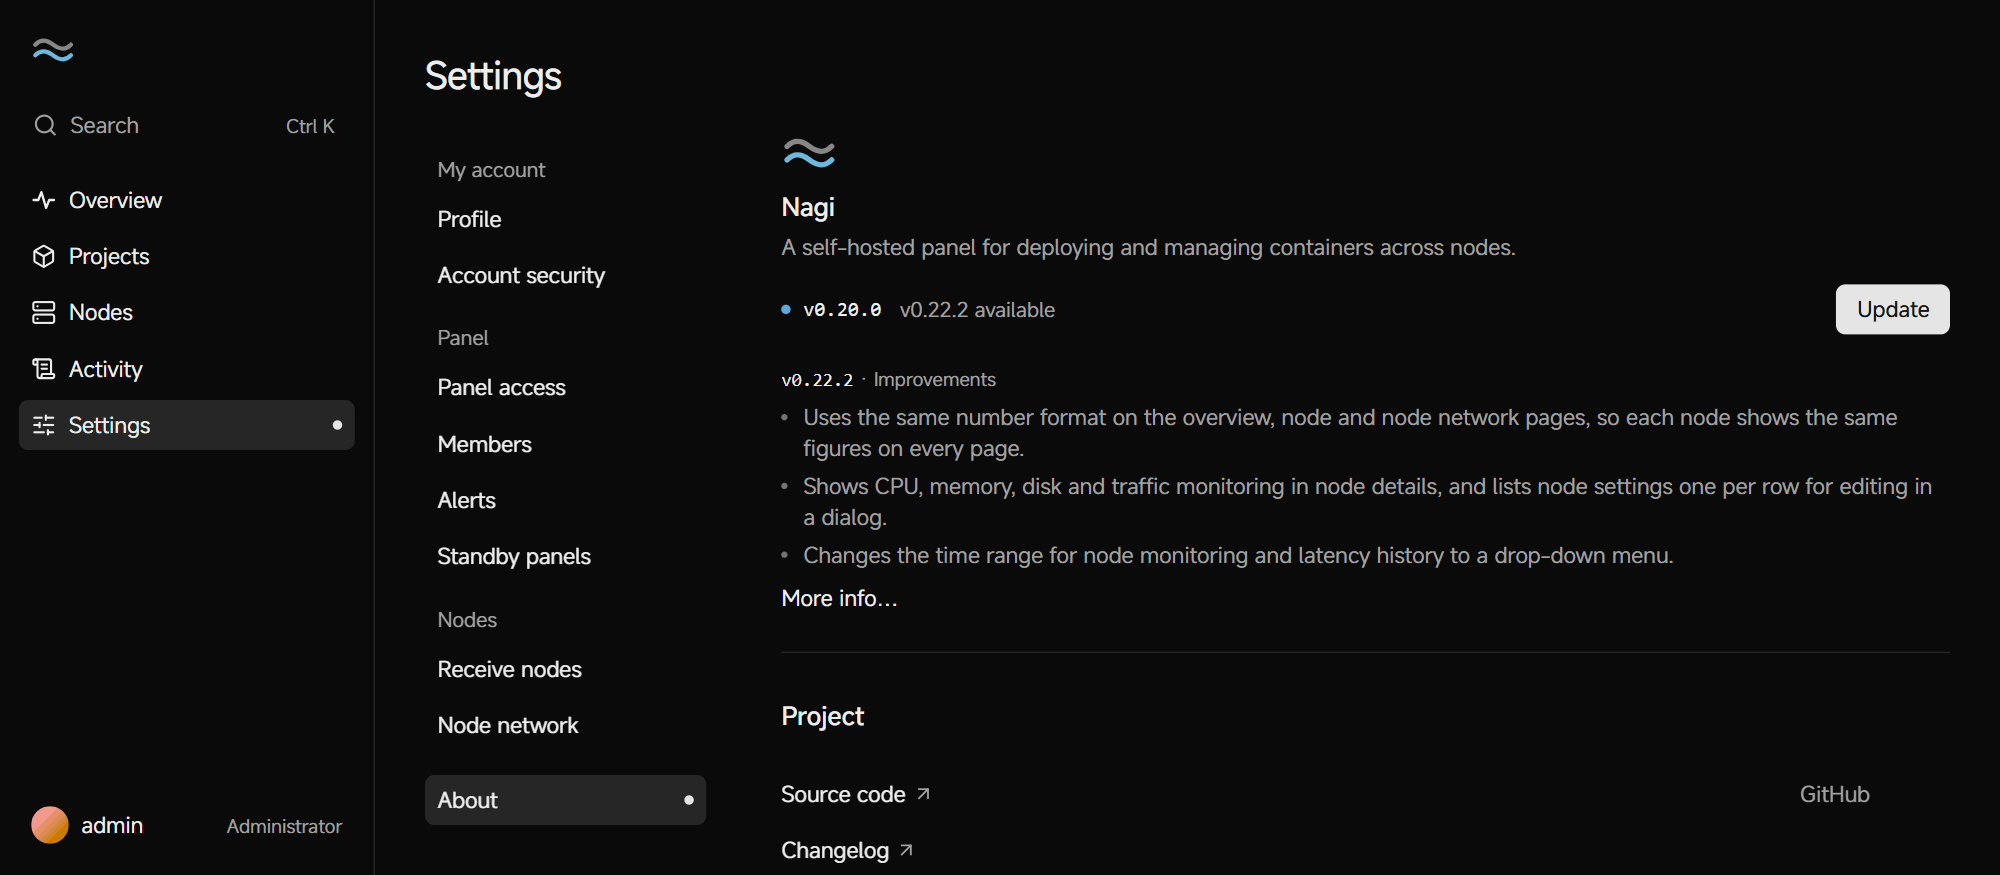
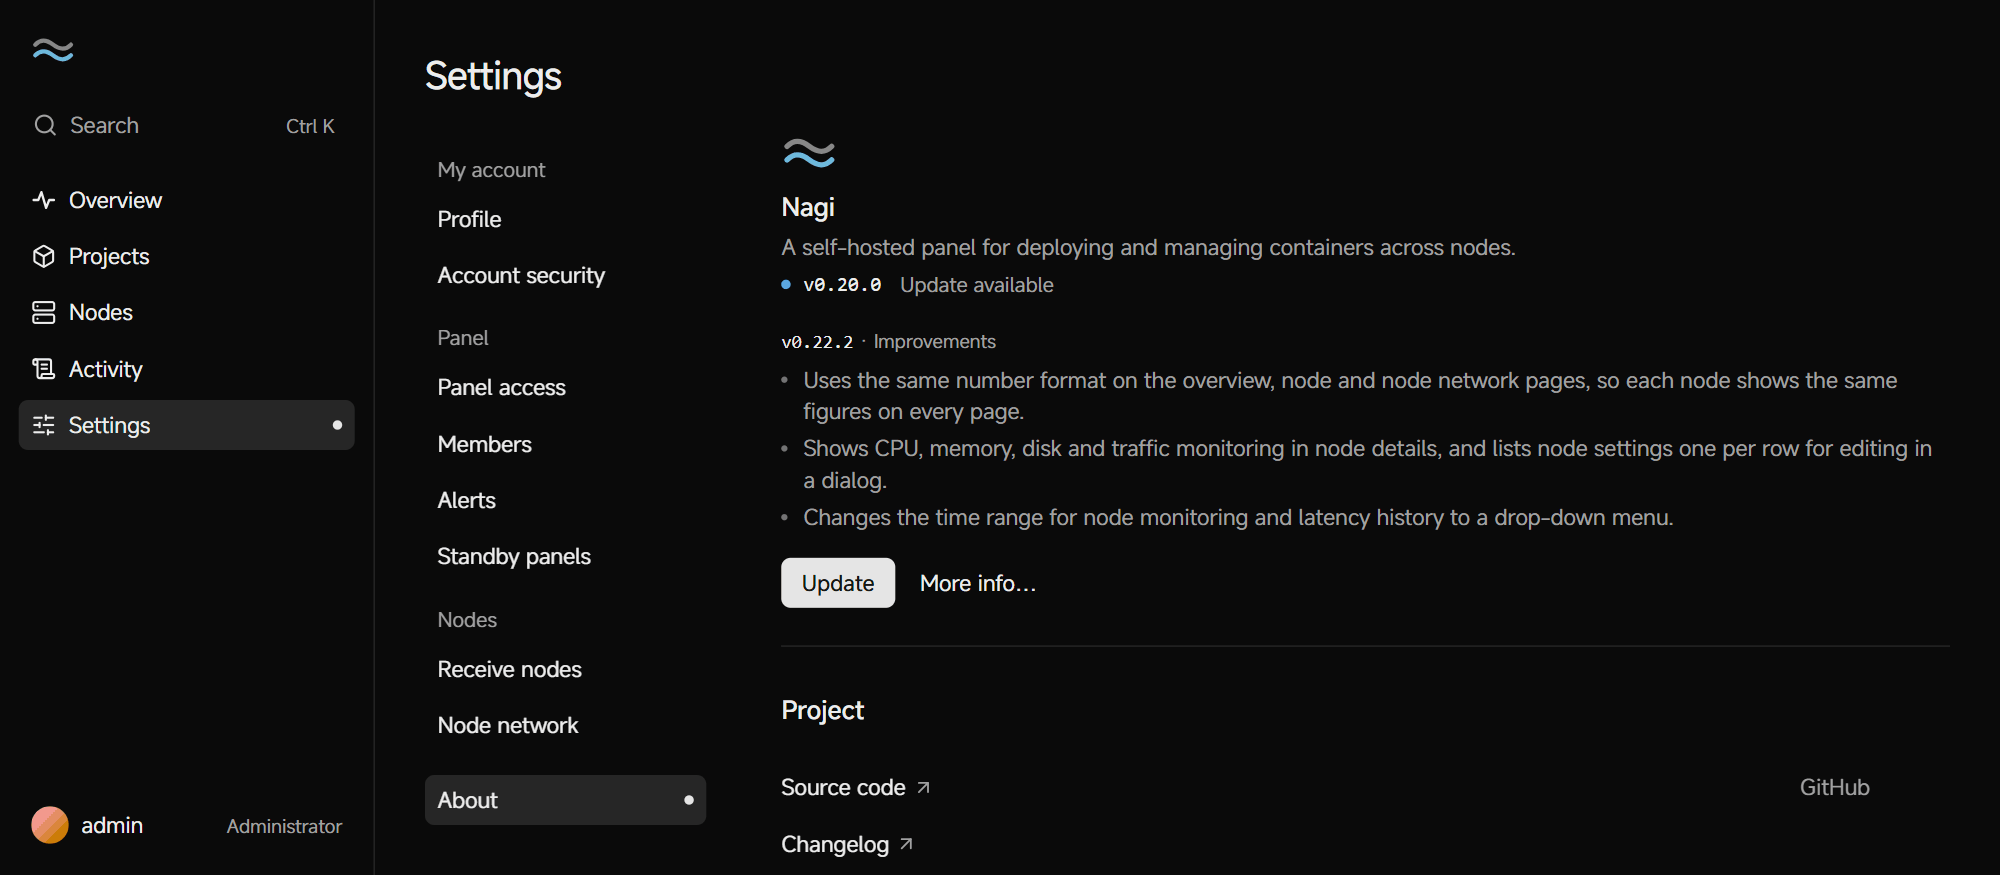
fix(web): put the update button below the notes in About
The button sat on the version line and stretched it. It now goes at the
bottom, left-aligned, with More info beside it. The status reads
"Update available", and the version line follows the tagline at the
same 4 as the name and tagline.

diff --git a/web/src/pages/update.tsx b/web/src/pages/update.tsx
@@ -367,14 +367,14 @@ export function PanelVersion({ isAdmin }: { isAdmin: boolean }) {
   } else if (panel && failed) {
     [tone, state] = ["danger", t.update.tips.panelFailed(panel.target)];
   } else if (d?.available) {
-    [tone, state] = ["info", t.update.availableTitle(d.latest)];
+    [tone, state] = ["info", t.update.available];
   } else if (d && !d.unsupported) {
     [tone, state] = ["success", t.update.upToDate];
   }
   const checkedAt = d?.checkedAt && timestampDate(d.checkedAt);
   const showChecked = !!checkedAt && !!d && !d.available && !d.unsupported && !active && !failed;
 
-  // 右边的按钮：可更新时是更新（失败后是重试），其余是检查更新。更新进行中、不能一键更新时没有按钮。
+  // 按钮：可更新时是更新（失败后是重试），其余是检查更新。更新进行中、不能一键更新时没有按钮。
   let action: React.ReactNode = null;
   if (canUpdate) {
     action = (
@@ -392,16 +392,17 @@ export function PanelVersion({ isAdmin }: { isAdmin: boolean }) {
     );
   }
 
-  // 版本信息下面：进行中的进度、失败原因、可更新时的更新说明，和名称左对齐。
+  // 版本下面：进行中的进度、失败原因。
   let below: React.ReactNode = null;
   if (panel && active) {
     below = <p className="text-pretty text-muted-foreground">{panel.phase === "restarting" ? t.update.restartingText : t.update.installingText}</p>;
   } else if (panel && failed && panel.error) {
     below = <p className="text-pretty text-muted-foreground">{panel.error}</p>;
   }
-  // 收起时是最新版本的前三条；展开是本面板到最新版本之间的全部，按版本分段，新的在前。高度过渡，下面的内容跟着移动。
-  const notesBlock = canUpdate && latest && preview && preview.items.length > 0 && (
-    <div ref={notesRef} className="grid scroll-mt-20 gap-2 text-muted-foreground">
+  // 更新说明：收起时是最新版本的前三条；展开是本面板到最新版本之间的全部，按版本分段，新的在前。高度过渡，下面的按钮跟着移动。
+  const hasNotes = canUpdate && !!latest && !!preview && preview.items.length > 0;
+  const notesBlock = hasNotes && (
+    <div ref={notesRef} className="scroll-mt-20 text-muted-foreground">
       <AutoHeight>
         {expanded ? (
           <div className="grid gap-5">
@@ -423,51 +424,55 @@ export function PanelVersion({ isAdmin }: { isAdmin: boolean }) {
           </div>
         )}
       </AutoHeight>
-      <button type="button" aria-expanded={expanded} className="justify-self-start rounded-sm text-foreground outline-none hover:underline focus-ring" onClick={toggleNotes}>
-        {expanded ? t.update.lessInfo : t.update.moreInfo}
-      </button>
     </div>
   );
 
-  // 间距按 HIG 的 8 点网格：logo 到名称 12，名称到介绍 4，介绍到版本 12，版本到下面的说明 16。
+  // 间距按 HIG 的 8 点网格：logo 到名称 12，名称、介绍、版本之间 4，版本到下面的内容、内容到按钮都是 16。
+  // 按钮放在最下面（参考 iOS 的软件更新：看完说明再操作），靠左，「更多信息」跟在它右边。
   return (
     <div className="grid">
       <Waves className="h-5 w-9 text-wave" />
       {/* 品牌是第一个区块：标题和区块标题同级（16 / 600），不和页面标题抢层级。 */}
       <h2 className="mt-3 text-base font-semibold">Nagi</h2>
       <p className="mt-1 text-pretty text-muted-foreground">{t.about.tagline}</p>
-      {/* 按钮和版本同一行，上下居中；按钮（32）上下各收进 6，不撑高这一行（20），文字间距才是 12 和 16。 */}
-      <div className="mt-3 flex min-h-5 items-center gap-4">
-        <div className="flex min-w-0 flex-1 flex-wrap items-center gap-x-3 gap-y-1 text-[13px] text-muted-foreground">
-          {q.isPending ? (
-            <Skeleton className="h-3 w-40" />
-          ) : (
-            <>
-              {/* 状态点放在版本号前面，进行中换成转圈；版本号用等宽字体。 */}
-              <span className="inline-flex items-center gap-2">
-                {panel && active ? <Spinner /> : tone && <span className={cn("size-1.5 rounded-full", dotColor[tone])} />}
-                <span className="font-mono text-foreground">{d?.current || status.data?.version || "—"}</span>
+      <div className="mt-1 flex min-h-5 flex-wrap items-center gap-x-3 gap-y-1 text-[13px] text-muted-foreground">
+        {q.isPending ? (
+          <Skeleton className="h-3 w-40" />
+        ) : (
+          <>
+            {/* 状态点放在版本号前面，进行中换成转圈；版本号用等宽字体。 */}
+            <span className="inline-flex items-center gap-2">
+              {panel && active ? <Spinner /> : tone && <span className={cn("size-1.5 rounded-full", dotColor[tone])} />}
+              <span className="font-mono text-foreground">{d?.current || status.data?.version || "—"}</span>
+            </span>
+            {d?.unsupported && <span>{d.unsupported}</span>}
+            {!d && q.error && <span>{errorMessage(q.error)}</span>}
+            {state && <span>{state}</span>}
+            {showChecked && <span>{t.update.checkedAgo(timeAgo(checkedAt))}</span>}
+            {canUpdate && scopeHint && (
+              <span className="inline-flex items-center gap-1">
+                {scopeHint.text}
+                <HelpTip>{scopeHint.help}</HelpTip>
               </span>
-              {d?.unsupported && <span>{d.unsupported}</span>}
-              {!d && q.error && <span>{errorMessage(q.error)}</span>}
-              {state && <span>{state}</span>}
-              {showChecked && <span>{t.update.checkedAgo(timeAgo(checkedAt))}</span>}
-              {canUpdate && scopeHint && (
-                <span className="inline-flex items-center gap-1">
-                  {scopeHint.text}
-                  <HelpTip>{scopeHint.help}</HelpTip>
-                </span>
-              )}
-            </>
-          )}
-        </div>
-        {action && <div className="-my-1.5 shrink-0">{action}</div>}
+            )}
+          </>
+        )}
       </div>
       {(error || below || notesBlock) && (
         <div className="mt-4 grid gap-3">
           {error && <Alert>{error}</Alert>}
           {below}
           {notesBlock}
+        </div>
+      )}
+      {action && (
+        <div className="mt-4 flex items-center gap-4">
+          {action}
+          {hasNotes && (
+            <button type="button" aria-expanded={expanded} className="rounded-sm text-foreground outline-none hover:underline focus-ring" onClick={toggleNotes}>
+              {expanded ? t.update.lessInfo : t.update.moreInfo}
+            </button>
+          )}
         </div>
       )}
     </div>

diff --git a/web/src/i18n/en/update.ts b/web/src/i18n/en/update.ts
@@ -7,7 +7,7 @@ export default {
   moreInfo: "More info…",
   lessInfo: "Show less",
   upToDate: "Up to date",
-  availableTitle: (version: string) => `${version} available`,
+  available: "Update available",
   primaryHint: "Standby panels are updated separately.",
   primaryHelp: "If their database version differs from this panel's, they pause syncing until both are on the same version.",
   standbyHint: "Only this standby panel is updated.",

diff --git a/web/src/i18n/zh/update.ts b/web/src/i18n/zh/update.ts
@@ -6,7 +6,7 @@ export default {
   moreInfo: "更多信息…",
   lessInfo: "收起",
   upToDate: "已是最新版本",
-  availableTitle: (version: string) => `可更新到 ${version}`,
+  available: "有可用更新",
   primaryHint: "备用面板需单独更新。",
   primaryHelp: "两边的数据库版本不同时，备用面板会暂停同步，直到更新到同一版本。",
   standbyHint: "仅更新本备用面板。",

diff --git a/docs/ui.md b/docs/ui.md
@@ -240,7 +240,7 @@
   - **网络**、**高可用**是拓扑图（`NodeMap`，纯 SVG）：面板在最上面，和节点围成一圈，两种图里位置相同。节点外圈是 CPU、内存、磁盘里占用最高的一项（阈值同占用指示）。窄屏（< 640px）只用列表。
   - **网络**：线条是在线节点之间的节点网络连接。直连是灰色实线（向外弯，不穿过面板），经面板中转是琥珀色虚线并经过面板，不可达是红色点线，只有出问题的连接带颜色。悬停或聚焦节点时突出它的连接并显示延迟，点击进入节点页。图下是「节点间延迟」矩阵：每格是行所在节点到列所在节点的当前延迟（来自各节点的 mesh 状态），直连的底色按延迟分四档灰度，中转、不可达用琥珀色、红色文字。点选一格显示这两个节点两个方向的延迟历史（`m:<公钥>:rtt`，可选 1 小时到 30 天），节点多时矩阵横向滚动。
   - **高可用**：箭头从容器所在的节点指向热备（实线）或备份节点（虚线），标出容器数；节点下面写有状态、没有副本的容器数。点选（悬停预览）一个节点模拟它故障：图下按结果分组列出它上面的容器（自动顶替、确认后顶替、无法顶替、可从备份恢复、数据无法恢复、无状态可重新部署），以及把它当作热备或备份节点的容器。判断按 [failover.md](failover.md) 的规则和当前的在线情况：顶替要热备和见证人都在线。
-- **设置 · 关于**：所有角色都能看。上面是品牌和版本，参考 macOS「软件更新」：logo（36 × 20）单独一行，下面是名称、一句介绍，再下面一行是状态点、版本号和状态，右边是这时唯一的按钮（可更新时「更新」，其余「检查更新」，只有管理员有）；间距按 8 点网格，logo 到名称 12、名称到介绍 4、介绍到版本 12、版本到下面的说明 16。有新版本时下面列出最新版本日志的前三条和「更多信息…」，点了就地展开全部日志（高度过渡，按钮变成「收起」；在底部收起时滚回日志开头），更新中、失败时是进度和原因。更新日志的列表圆点贴齐左边，和上下的文字左对齐；下面是项目链接（源代码、更新记录、反馈问题、开源许可）和致谢。MiSans 的署名放在致谢里，是字体许可的要求，不能省。
+- **设置 · 关于**：所有角色都能看。上面是品牌和版本，参考 macOS「软件更新」：logo（36 × 20）单独一行，下面是名称、一句介绍，再下面一行是状态点、版本号和状态（「有可用更新」「已是最新版本」，新版本号在更新说明和确认框里）。有新版本时下面列出最新版本日志的前三条，更新中、失败时是进度和原因。最下面是这时唯一的按钮（可更新时「更新」，其余「检查更新」，只有管理员有），靠左，参考 iOS 的软件更新：看完说明再操作；按钮（32）比文字行高，不放在版本行，否则把这一行撑高。按钮右边是「更多信息…」，点了就地展开全部日志（高度过渡，变成「收起」；在底部收起时滚回日志开头）。间距按 8 点网格：logo 到名称 12，名称、介绍、版本之间 4（一组），版本到下面的内容、内容到按钮都是 16。更新日志的列表圆点贴齐左边，和上下的文字左对齐。再下面是项目链接（源代码、更新记录、反馈问题、开源许可）和致谢。MiSans 的署名放在致谢里，是字体许可的要求，不能省。
 - **活动页**（`/activity`）：面板上的操作和告警，标题右边是「全部 / 操作 / 告警」分段控件，下面一行一条。以前在设置里，旧地址 `/settings?tab=activity` 跳到这里。
 - **设置页**：左侧二级菜单按组排：我的账号（个人资料、账号安全）、面板（面板访问、成员、告警、备用面板）、节点（接收节点、节点网络）。不是管理员时只有我的账号。右侧是选中的一项。设置行（`SettingRow`）左边名称和说明，右边最多两个控件，行之间一条线。主密钥放在面板访问，不放账号安全；修改密码用对话框；登录设备默认显示 3 条；账号安全最后是「访问令牌」（MCP 地址一行加令牌列表，生成令牌和令牌只显示一次都用对话框，见 [mcp.md](mcp.md#登录)）。OAuth 授权页（`/oauth/authorize`）和登录页同一种外框，上面写客户端名称和回调地址的域名，权限选项默认都不勾，按钮是等宽的「拒绝」「允许」。成员列表参考 Apple「用户与群组」和 Vercel 的成员页：一行只放身份，头像（32）、名称（显示名称，没有时是用户名），第二行灰字写用户名、角色和限定的访问范围；右边只在开了两步验证时写状态，然后是 ⋯（36，不外扩，离行底色右边缘 16）。整行上下居中。改角色和访问范围都在 ⋯ 的「编辑权限」对话框里，项目、节点各一个「全部 / 指定」分段控件，指定时下面列出可勾选的项。
 - **状态写进地址**：筛选、排序、标签、视图、时间范围都写进地址，刷新和分享不丢。导航和跳转用真正的链接，能 Ctrl+点击在新标签打开。
